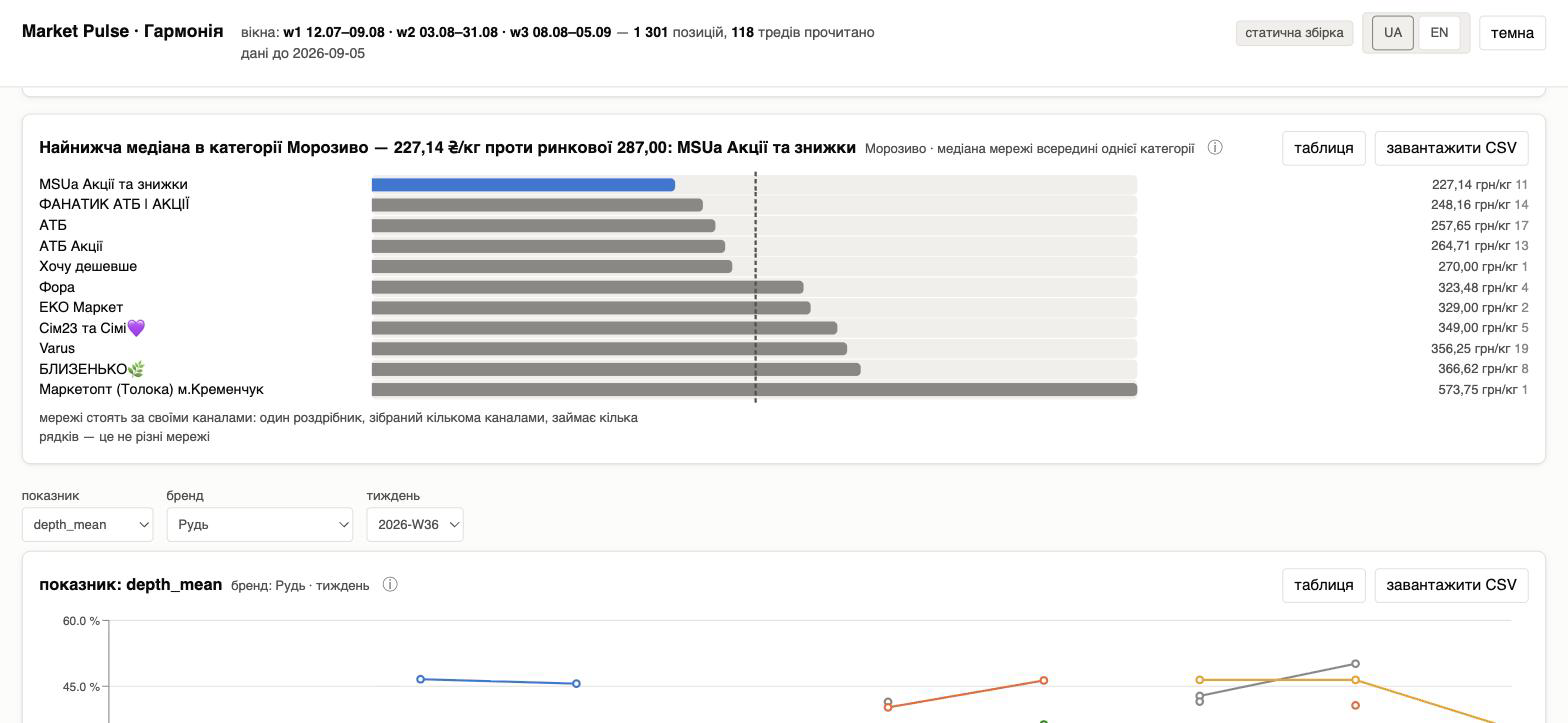
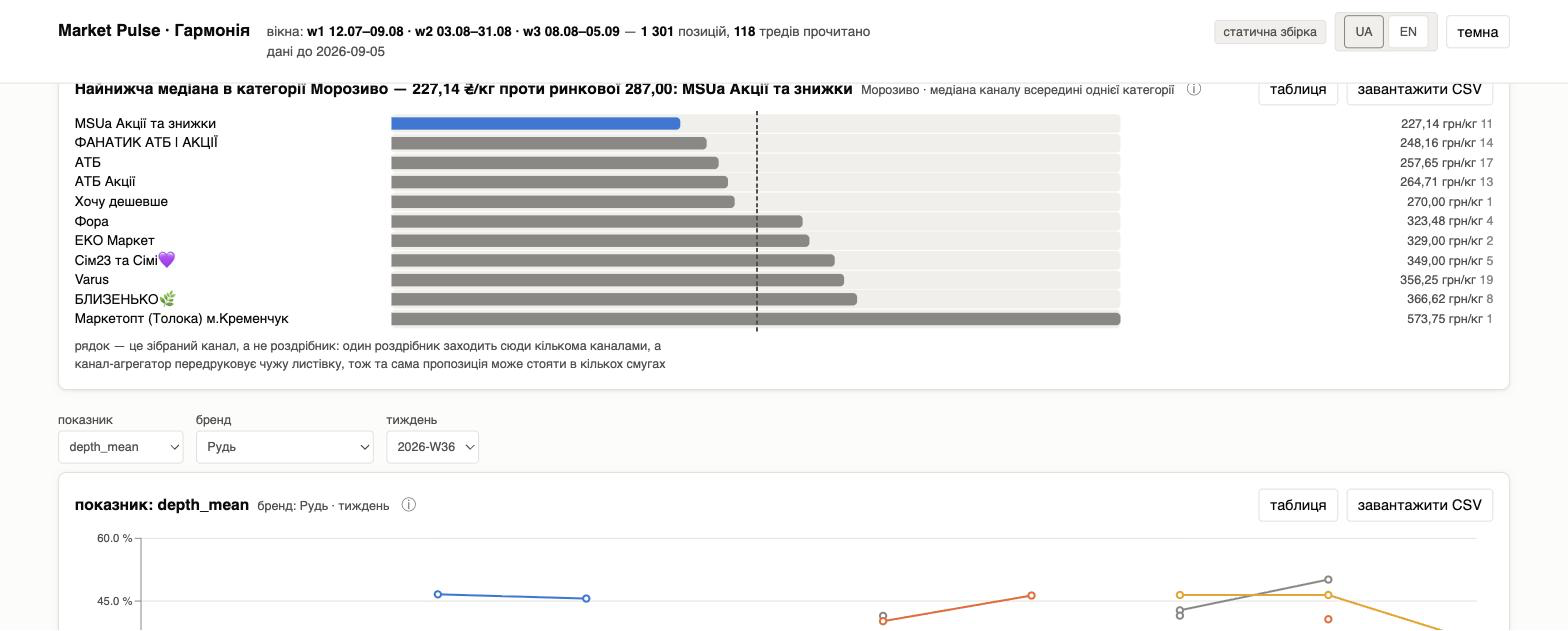
docs(progress): s56 «insight-1» — the week's message is a code rule, 4341/2 on `71794a7`
Done / next / open stop in 49 lines. Three commits of work and two of my own
review's findings: what the item delivered, the three §4.2 forks named for the
brief (the exhibit-title rule on the three reader-filtered charts is the one
that needs a ruling), and two new debts — the ranking's rows are collected
channels, and the brief's eight slots leave five chains sharing one grey.
Open stop: none. $0.

Claude-Session: https://claude.ai/code/session_01XMWU4TUN52W22SvccQmYqu

diff --git a/docs/plans/ship-1.PROGRESS.md b/docs/plans/ship-1.PROGRESS.md
@@ -25,13 +25,25 @@ Fork taken (§4.2, named here): the export carries the corrected rows WHOLE (+54
 Product defect caught in my own browser and fixed in the same commit (§3's standing permission): §11's staggered reveal leaves a `transform` on every row, so each row is its own stacking context and the new ⓘ panel was painted UNDER the rows below it — the row holding an open panel is now lifted (`tr:has(.popover:not([hidden]))`).
 Checks: `make front` green, producer byte-identical on three runs (`b980c659…`); `npm run check` (tsc) clean; **vitest 23/23** — the two new ones are the check line's own, both ways, and each was shown RED by a producer-side negative control (`kept = list(rows)` → 1301 ≠ 1299; `min` for `max` → 2026-W33 ≠ 2026-W36); no console error from the app; the STATIC build through `python3.11 -m http.server` renders both blocks (light, Якість absent from nav per §11); the schedule grep — `dashboard/app/data/*.json` **0 hits**, the bundle's 5 + 5 + 2 hits all come from `frontend/src/tabs/Loop.tsx`, the only source file that spells them; `read_price_plausibility.py` still reads **13 of 303**. Screens: `docs/reports/screens/insight-2-{positions-week,corrected-row,trends-week,chain-weeks,static-light}.png`. `make check` on `3b8e7e8`: ruff **All checks passed!** · **4341 passed / 2 skipped in 712.13 s**, exit 0 — the same count as s54, because this item's two tests are vitest (what its check line asks for) and no Python test was added.
 
-## Next — «insight-1» (PHASE v12 §2, after (aaa) reordered insight-2 first): Тренди in the consultant's grammar of DESIGN §12 — «Три висновки тижня» + action titles from code rules INSIDE `export_front_data.py`, the min–median–max dot-range strip, the chain ranking with the market median as a reference line, colour by CHAIN through `chains.by_channel`, `nav.tabs` wrapping at 500 px. Then «data-shape» → «front-2» → «e2e-ship» → the gate Wed 16.09 evening.
+## Done — 13.09 s56 «insight-1» ($0, §2 item «insight-1», ruling (bbb) 3): `bb2b50e` (team-lead files) · `8fc14b5` (producer) · `5127401` (app) · `15a3331` · `71794a7` (what my own adversarial review of the diff returned)
+Start ritual: the three modified team-lead files committed by path FIRST — `bb2b50e` (ruling (bbb), the §2 tick, STATUS).
+**The message is the export's.** `front_data.json` gains `trends`: three readings («Три висновки тижня») and three exhibit ACTION TITLES, written by code rules in `export_front_data.py` over the very block the exhibits draw — the app renders sentences and words none. Each carries `stands_on`, the path of every figure it states, and its ⓘ prints those paths beside the file. On screen: Морозиво — медіана **287,00 ₴/кг** на 95 позиціях, найнижча **106,00** (Рудь, MSUa) −63%; найширший розкид Сир твердий **253,33 → 1 247,92**, різниця 994,59 (n=62); найнижча медіана в морозиві **227,14** проти ринкової 287,00 — MSUa (11 каналів). Every rule states the population it compared BEFORE it names what it found, and a tie is LISTED, never picked by an id.
+**Two new exhibits.** The min–median–max strip — one row per (category × unit), 13 rows in 2 groups, the axis shared INSIDE one unit and never across two; the chain ranking over the week's biggest basis — 11 collected channels on their own medians inside морозиво, the market median a dashed reference line, `n` beside every bar (NO floor: a channel with one row prints its 1). `category_prices…bases[].chains` is the ONE place a per-chain median is computed — `aggregates.spread`, cut inside the basis, never across categories.
+**Colour follows the chain** (s52 finding-1, measured in my browser): brand «Рудь» → «Ласунка» is a different series set with a different first row, and АТБ stays `rgb(57,135,229)`, Varus `rgb(217,89,38)`, Близенько `rgb(0,131,0)`; the fold-and-colour step is one callable (`chains.handleColour`) and `colourByIndex` is deleted with its last caller.
+**Nothing leaks sideways** (s52 finding-2; both builds served and measured — elements painted past the right edge, excluding the one scroll wrapper §4 allows): BEFORE at 500 px the nav was a scroll row hiding **622 px** of tabs (`.shell` 1122 → 500); AFTER **0** on Тренди and Позиції at 500 px AND at 390 px, `documentElement.scrollWidth` = the viewport. Two defects of my own found in the browser and fixed in `15a3331`: `.chart-head` did not wrap (390 px: 6 elements past the edge → 0) and the ⓘ of the FIRST reading opened 228 px off-screen at 1440 px (1 clipped of 9 → 0 of 9 at 1440 and 390), both closed the way `.sku`/`.extreme` already close it — by the block that bounds the panel.
+**My own review of the diff** (six read-only lenses, every finding put to a refuter; 30 filed, 5 survived): two of MY guards held over nothing — the colour check compared `seriesColour(id)` with `seriesColour(fold[handle])`, which is the same call, and it passed with the fold dropped and with one colour for every chain; the exhibit-id check compared the export against a list typed in the test. Both repaired in `71794a7` and each shown RED by its mutation (fold dropped · one colour for all · a renamed exhibit id). The third: the ranking's rows are collected CHANNELS and the sentence said «мереж» — corrected below.
+Checks: producer twice byte-identical (`dcef7ec5…`); sealed `promo_screen_data.json` untouched (`e45860c6…`); block by block against the pre-change export — `trends` the only new key, `category_prices` gains only `chains`, medians unmoved (287 · 390,42 · 103,48); `npm run check` clean; **vitest 27/27**, the four new checks each shown red by its own negative control (the first caught a REAL defect before the commit: an exhibit title standing on a figure it does not print); `make front` green; no console error from the app. `make check` on `71794a7`: ruff **All checks passed!** · **4341 passed / 2 skipped in 727.70 s**, exit 0 (on `5127401` it read the same, 736.06 s) — the count is s55's, because this item's tests are vitest. Screens: `docs/reports/screens/insight-1-{trends-dark,spread-and-ranking-dark,ranking-light,conclusion-info,nav-500px,spread-500px,ranking-390px}.png`.
+Forks taken (§4.2 — named here, the line the brief owes): (1) **the check line is met on 3 of the 6 exhibits.** §12 gives no rule for an exhibit whose data the READER filters, and a title per (metric, brand) pair would be 272 messages in one exhibit — which §12's own «one message per exhibit» forbids; so the three older charts keep descriptive titles BELOW the exhibit block. If §12's action-title rule does bind them, the shape is a titles map keyed by the filter (272 + 9 rows) and I build it on the word. (2) The ranking is ONE series over a channel axis, so §12's message/context colouring applies there (the lowest median accented, the rest grey); `chains.by_channel` binds the handle-keyed charts, where s52's finding was measured. (3) DESIGN §4's «nav scrolls under 720 px» is superseded by this item's «wraps at 500 px» — dropped at every width.
+
+## Next — «data-shape» (PHASE §2): does a rerun of the weekly pipeline APPEND a new week to the derived rows or OVERWRITE them — the $0 reading with its command, then the append-only weekly artifact if it overwrites, `docs/DATASETS.md` ≤80 lines, and the ONE authorized test file `tests/test_export_front_data.py` (the multipack divisor both ways · a named non-zero exit on a missing source · no silent zero-row category). Then «front-2» → «e2e-ship» → the gate Wed 16.09 evening. **Open stop: none.**
 
 ## Named, not built (the phase file forbids adding what it did not ask for)
+- **The ranking's rows are collected CHANNELS, not retailers.** АТБ reaches the морозиво ranking through three (atb 17 · atb_fanatik 14 · atb_aktsiyi 13 — 44 of the 95 rows) and `msuaaaa` (an aggregator, 11) reprints АТБ's own leaflet, which is how the lowest median 227,14 is АТБ's Рудь 70 г read off a repost. The sentence now counts channels, the block's `reading` says what a row is and the note names both classes — FOLDING them would move a published population (POST-GATE, (yy) 5; the ADR's rule 5 already ruled this shape for the region block).
+- **The «інші» grey collapses the five chains the brief gives no slot** (msuaaaa · sim23 · atb_aktsiyi · atb_fanatik · xochydeshevshe): §6 names eight and the promo data carries sixteen sources, so two named series can share one grey swatch in the week chart. msuaaaa holds this week's cheapest ice cream — a slot for it is the brief's call.
 - **The pageless note's two populations.** «без фото: 25 з 1 299» — the 25 was counted by `media()` over the sealed 1301 and the denominator is the corrected block. It is whole TODAY because both excluded rows do carry a page (`VARUS_channel_11300.jpg`, `VARUS_channel_11239.jpg`); an exclusion landing on a pageless row would make the note count a row its own denominator drops.
 - **No Python test for the two new producer blocks**: the item's check line asks for vitest, and §3 forbids the rest — `positions_block` and `reporting_week` are covered by the two vitest checks over the SHIPPED export, not by a unit test on synthetic rows. `adapters.test.ts`'s header rule went from two literals to three (`RECORDED_ROWS = 8`, the record's own size, with its reason).
 - **The same leaflet page is collected three times** (`@atb_market_official:4767` · `@ATB_FANatik:4657` · `@atb_aktsiyi:3420`), so that tile's two offers are counted three times each in морозиво ₴/кг n=95. Pre-existing; de-duplicating moves a published population.
 - `media.flyers[].positions` still counts the two excluded rows — the gallery joins pages, not figures, and the cover in the page population is POST-GATE ((yy) 5).
 - **A row off a page that prints NO price is invisible to any magnitude band.** Two of the 8 were that class and both landed mid-distribution — only a hand-widened pass found them. The record closes the eight that were read; it cannot enumerate the class.
 - **One offer counted twice in a price median**: `@ekomarket_shop:1469:0` and `@forainfo:6056:0` are each read off the page AND off the post text; `row_id` is NOT unique (7 ids), and a leaflet COVER sits in the page population (`@VARUS_channel:11300`). All three move published populations — POST-GATE per (yy) 5.
-- Carried: the static/served cold-start race (`load.ts`'s 1 s guard) · `colourByIndex` colours by POSITION · «Тренди» overflows on a phone · `quartiles()` returned q1 below min at n=2 · `status.money.from` names `sessions[-1]` for a root `cap_usd` · the two id spaces · no test for `loop_daemon.py`, `promote_signals.py`, `thread_population`, the gate's third state · `spend_promo_c3.json` says `"tolerance": 0.05` where the FLOOR closed it · `promo_projection_c2.json` not reproducible · the fold map has no guard ((pp) 2(a)).
+- Carried (two of this list are CLOSED by s56 — the by-position colour and Тренди's phone overflow): the static/served cold-start race (`load.ts`'s 1 s guard) · `quartiles()` returned q1 below min at n=2, which is why the strip draws min–median–max and no quartile band · `status.money.from` names `sessions[-1]` for a root `cap_usd` · the two id spaces · no test for `loop_daemon.py`, `promote_signals.py`, `thread_population`, the gate's third state · `spend_promo_c3.json` says `"tolerance": 0.05` where the FLOOR closed it · `promo_projection_c2.json` not reproducible · the fold map has no guard ((pp) 2(a)).
